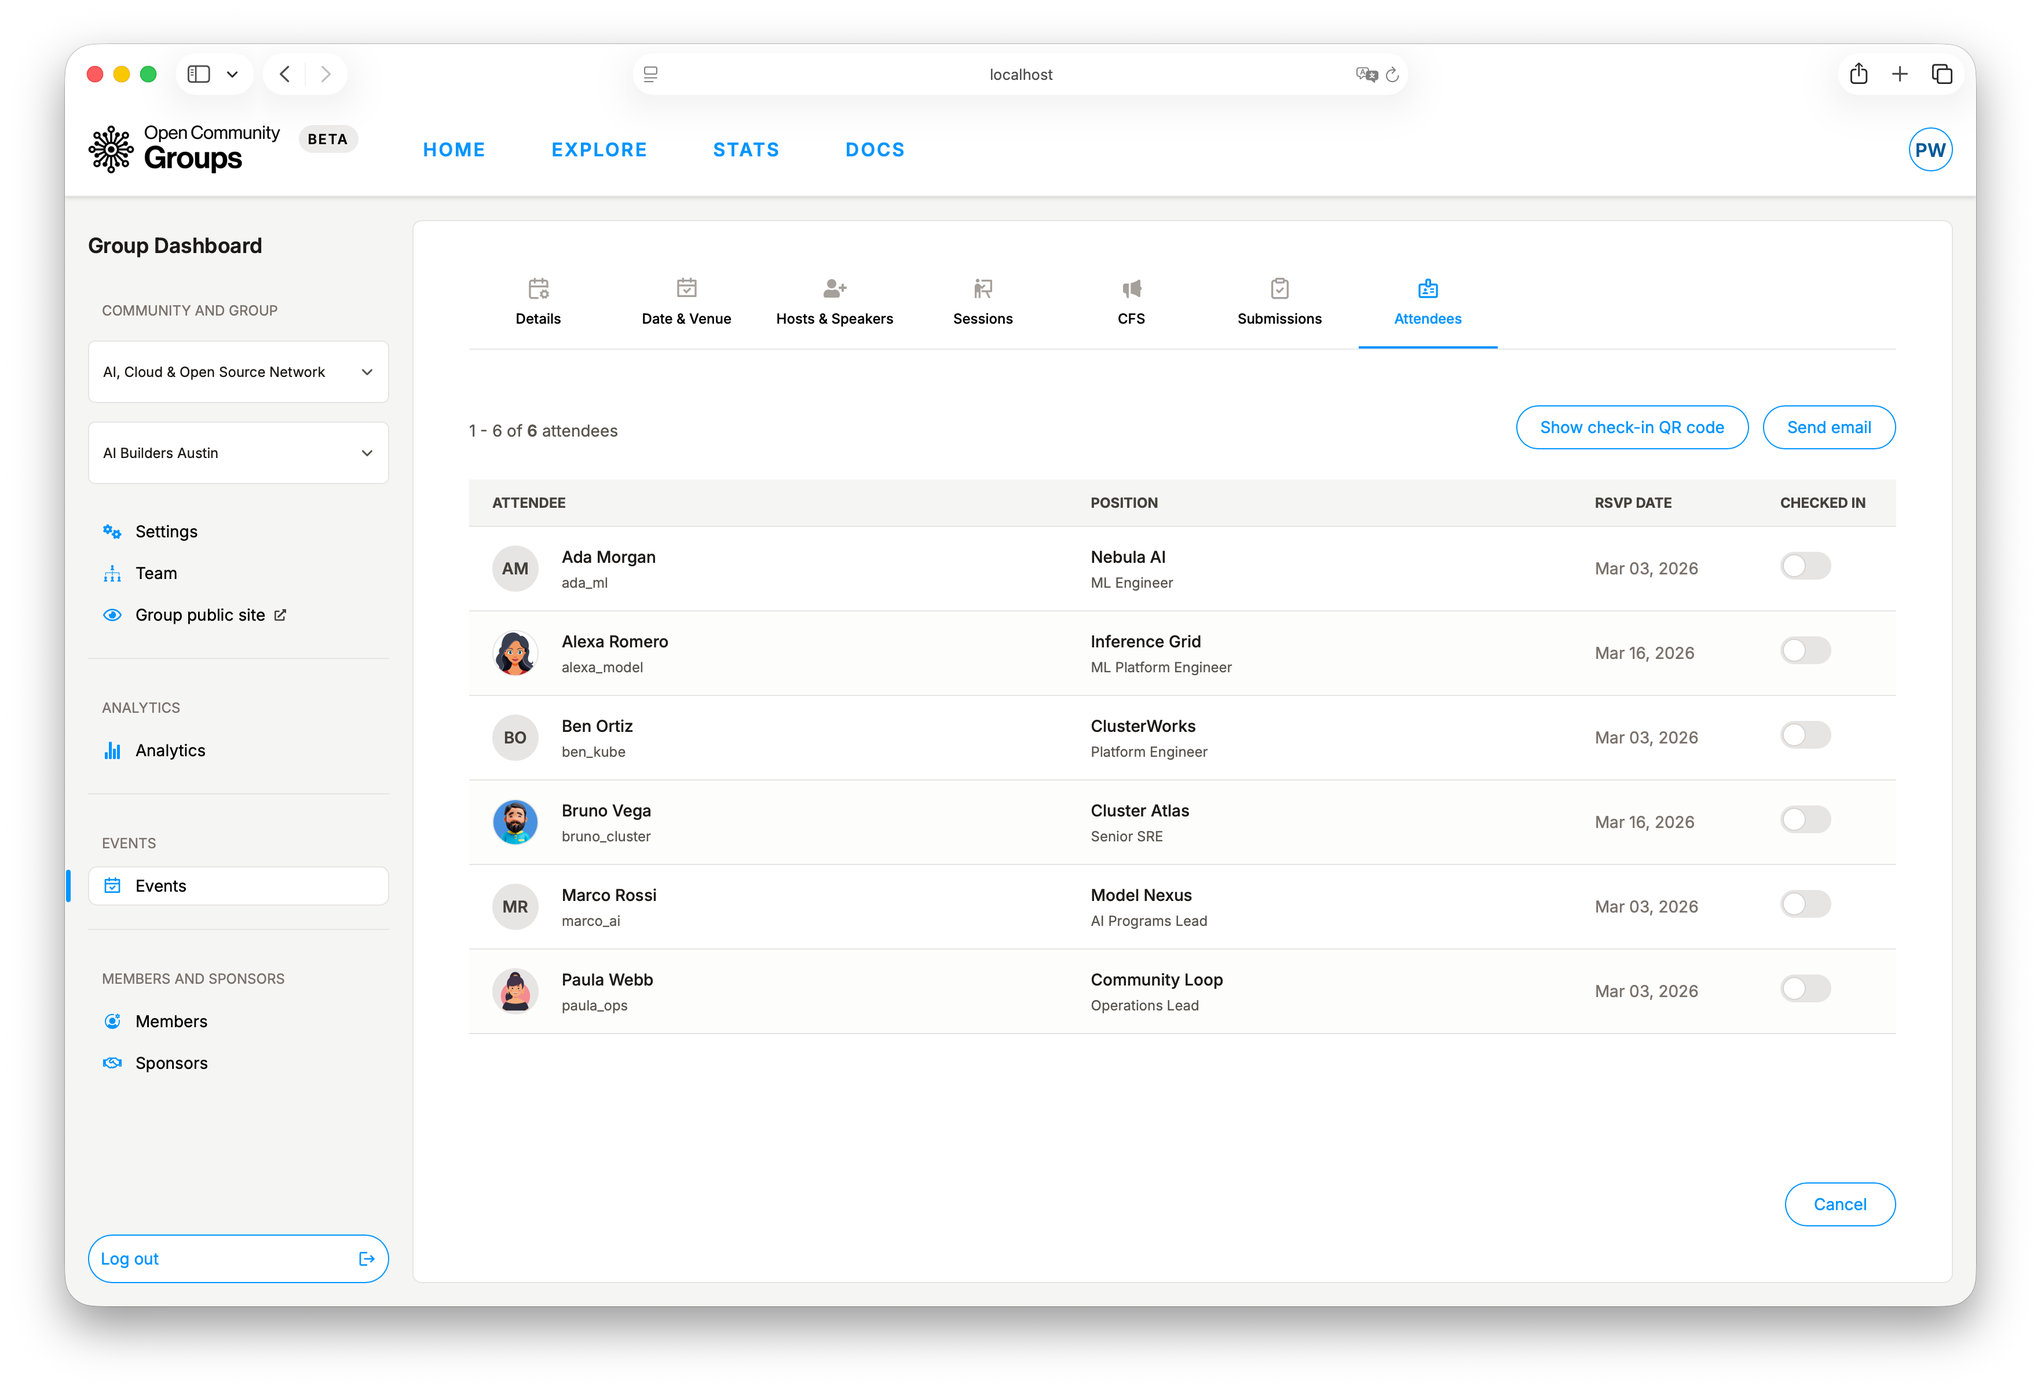
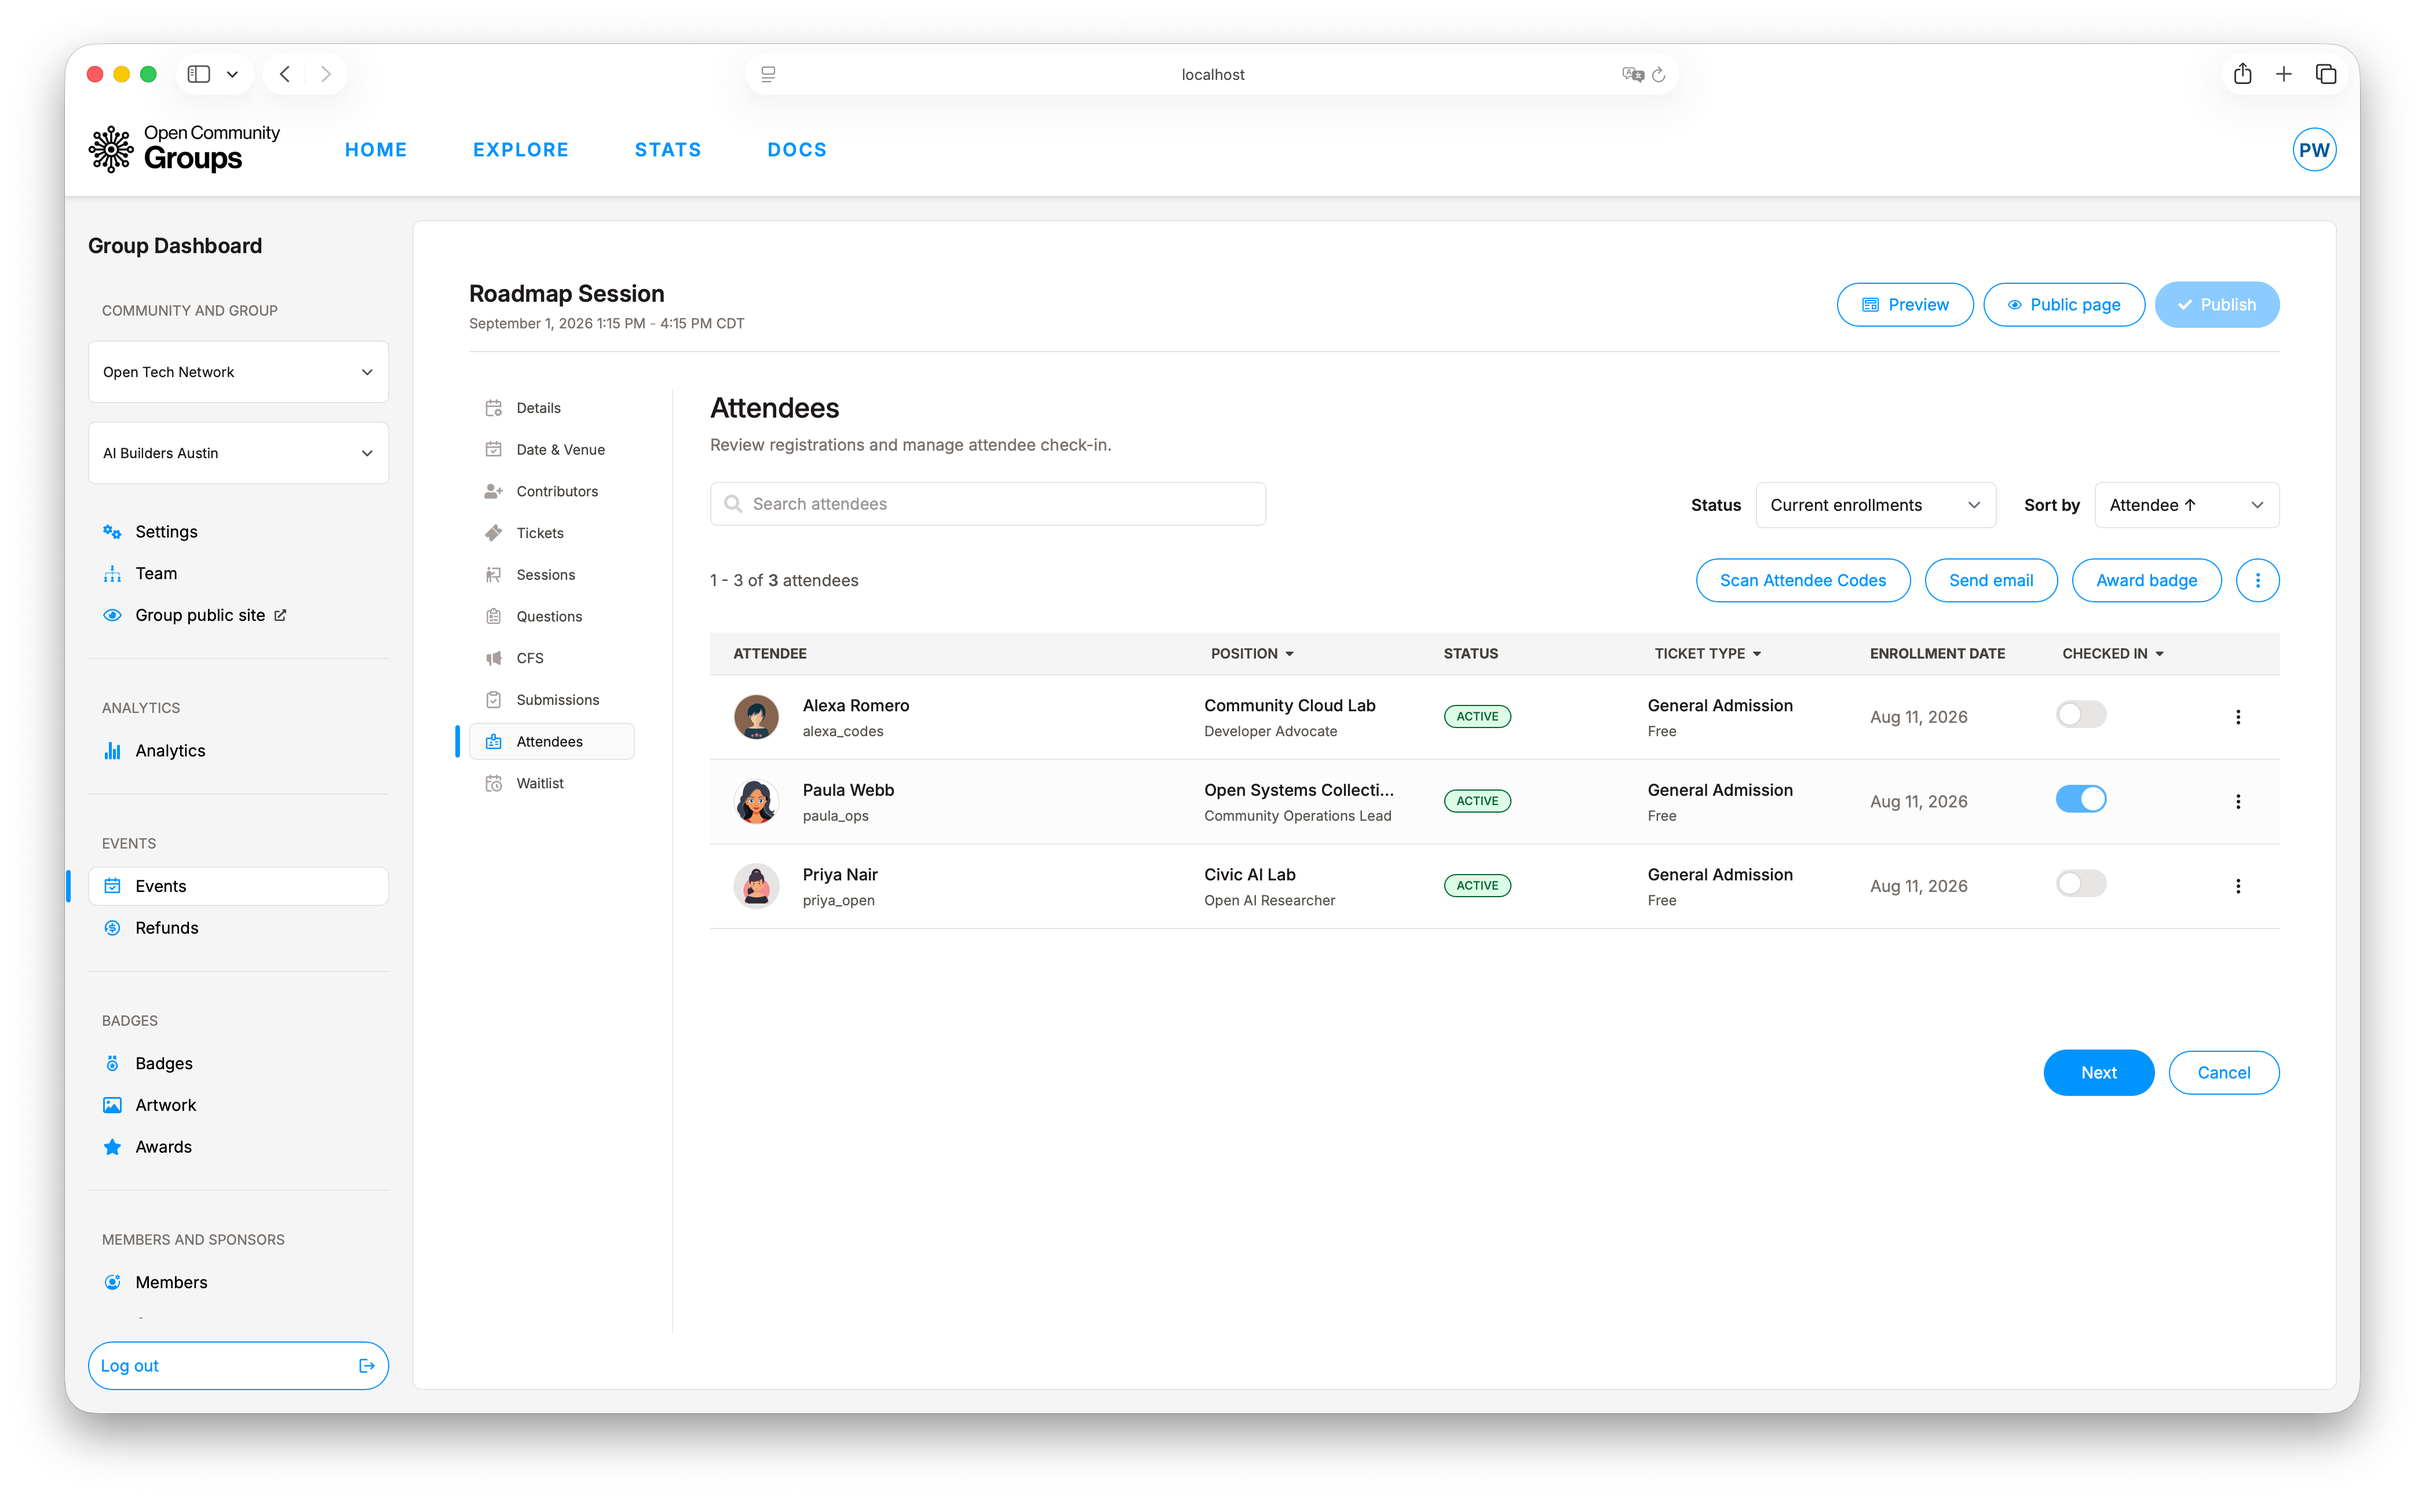
Update attendee check-in documentation screenshots

diff --git a/tests/unit/dashboard/group/check-in/scanner.test.js b/tests/unit/dashboard/group/check-in/scanner.test.js
@@ -28,7 +28,7 @@ describe("group check-in scanner controls", () => {
             <input type="checkbox" data-group-check-in-mute>
             <span data-group-check-in-mute-label>Mute sounds</span>
           </label>
-          <h2 id="group-check-in-scanner-title">Scan attendees</h2>
+          <h2 id="group-check-in-scanner-title">Scan Attendee Codes</h2>
           <h4 id="group-check-in-event-name"></h4>
           <p id="group-check-in-event-date"></p>
           <p id="group-check-in-event-location"></p>
@@ -622,7 +622,9 @@ describe("group check-in scanner controls", () => {
     expect(FakeScanner.instances[0].video.isConnected).to.equal(false);
     expect(FakeScanner.instances[1].video).to.equal(document.querySelector("[data-group-check-in-video]"));
     expect(document.querySelector("[data-group-check-in-camera]").value).to.equal("new-camera");
-    expect(document.getElementById("group-check-in-scanner-title").textContent).to.equal("Scan attendees");
+    expect(document.getElementById("group-check-in-scanner-title").textContent).to.equal(
+      "Scan Attendee Codes",
+    );
     expect(document.getElementById("group-check-in-event-name").textContent).to.equal("Event B");
     expect(document.getElementById("group-check-in-event-date").textContent).to.equal(
       "Aug 25, 2026 · 10:00 AM CEST",

diff --git a/tests/unit/dashboard/group/check-in-template.test.js b/tests/unit/dashboard/group/check-in-template.test.js
@@ -56,7 +56,7 @@ describe("dashboard group check-in template", () => {
     expect(template).to.include(
       'class="btn-primary-outline btn-mini inline-flex items-center whitespace-nowrap focus-visible:outline focus-visible:outline-2 focus-visible:outline-offset-2 focus-visible:outline-primary-500"',
     );
-    expect(template).to.include("<span>Scan attendees</span>");
+    expect(template).to.include("<span>Scan Attendee Codes</span>");
     expect(template).to.include('<span class="sr-only">for {{ event.name }}</span>');
     expect(template).not.to.include("icon-qr-code bg-primary-500");
   });
@@ -84,7 +84,7 @@ describe("dashboard group check-in template", () => {
     );
     expect(template).to.include('<div class="modal-body flex-1 p-4 md:p-6">');
     expect(template).to.include(
-      '{{ dashboard::modal_header(title_id = "group-check-in-scanner-title", title = "Scan attendees", close_attrs = "data-group-check-in-close") -}}',
+      '{{ dashboard::modal_header(title_id = "group-check-in-scanner-title", title = "Scan Attendee Codes", close_attrs = "data-group-check-in-close") -}}',
     );
     expect(template).to.include('id="group-check-in-event-name"');
     expect(template).to.include('id="group-check-in-event-date"');

diff --git a/tests/e2e/dashboard/group/events/attendees.spec.js b/tests/e2e/dashboard/group/events/attendees.spec.js
@@ -194,7 +194,7 @@ test.describe("group dashboard attendees tab", () => {
       TEST_EVENT_IDS.alpha.one,
     );
     const scannerButton = attendeesContent.getByRole("button", {
-      name: "Scan attendees",
+      name: "Scan Attendee Codes",
     });
     await expect(scannerButton).toBeEnabled();
     await scannerButton.click();
@@ -247,7 +247,7 @@ test.describe("group dashboard attendees tab", () => {
     expect((await refreshResponsePromise).ok()).toBe(true);
     await expect(scannerModal).toBeHidden();
     await expect(
-      attendeesContent.getByRole("button", { name: "Scan attendees" }),
+      attendeesContent.getByRole("button", { name: "Scan Attendee Codes" }),
     ).toBeEnabled();
   });
 
@@ -263,7 +263,7 @@ test.describe("group dashboard attendees tab", () => {
 
     // Verify the desktop scan action stays discoverable for this role.
     const scannerButton = attendeesContent.getByRole("button", {
-      name: "Scan attendees",
+      name: "Scan Attendee Codes",
     });
     await expect(scannerButton).toBeVisible();
     await expect(scannerButton).toBeEnabled();

diff --git a/tests/unit/dashboard/group/attendees-list-template.test.js b/tests/unit/dashboard/group/attendees-list-template.test.js
@@ -45,7 +45,7 @@ describe("dashboard group attendees list template", () => {
     expect(template).to.include('disabled title="Past events cannot scan attendees."');
     expect(template).to.include('{% include "dashboard/group/check_in_scanner_modal.html" -%}');
     expect(scannerModal).to.include('id="group-check-in-scanner-modal"');
-    expect(scannerModal).to.include('title = "Scan attendees"');
+    expect(scannerModal).to.include('title = "Scan Attendee Codes"');
   });
 
   it("groups enrollment views and exact statuses in one selector", async () => {

diff --git a/ocg-server/templates/dashboard/group/check_in_list.html b/ocg-server/templates/dashboard/group/check_in_list.html
@@ -47,7 +47,7 @@
                   data-event-location="{% if event.kind == EventKind::Virtual -%}Virtual{% else -%}{{ event.location.as_deref() |assigned_or("Venue details pending") }}{% endif -%}"
                   data-event-name="{{ event.name }}"
                   data-scan-url="/dashboard/group/events/{{ event.event_id }}/check-ins/scan">
-            <span>Scan attendees</span>
+            <span>Scan Attendee Codes</span>
             <span class="sr-only">for {{ event.name }}</span>
           </button>
           {% endcall -%}

diff --git a/ocg-server/templates/dashboard/group/check_in_scanner_modal.html b/ocg-server/templates/dashboard/group/check_in_scanner_modal.html
@@ -16,7 +16,7 @@
   <div class="modal-panel h-full max-h-full max-w-2xl p-4 sm:h-auto sm:max-h-[90vh]">
     <div class="modal-card h-full max-h-full rounded-lg sm:h-auto sm:max-h-[calc(90vh-2rem)]">
       {{ dashboard::modal_header(title_id = "group-check-in-scanner-title",
-        title = "Scan attendees",
+        title = "Scan Attendee Codes",
         close_attrs = "data-group-check-in-close") -}}
 
       <div class="modal-body flex-1 p-4 md:p-6">

diff --git a/ocg-server/templates/dashboard/group/attendees_list.html b/ocg-server/templates/dashboard/group/attendees_list.html
@@ -236,7 +236,7 @@
                   disabled title="Publish this event before scanning attendees."
                 {% else if event.is_past() -%}
                   disabled title="Past events cannot scan attendees."
-                {% endif -%}>Scan attendees</button>
+                {% endif -%}>Scan Attendee Codes</button>
       </div>
     {% endif -%}
     <div class="group relative w-full lg:w-auto

diff --git a/docs/assets/theme.css b/docs/assets/theme.css
@@ -384,6 +384,14 @@ body,
   width: 80%;
 }
 
+.markdown-section img[src$="dashboard-group-check-in.png"],
+.markdown-section img[src$="dashboard-user-check-in-qr-code.png"] {
+  margin-left: auto;
+  margin-right: auto;
+  max-width: 26rem;
+  width: 100%;
+}
+
 .markdown-section p:has(> img) {
   margin: 2.5rem 0 2rem;
 }

diff --git a/docs/guides/event-operations.md b/docs/guides/event-operations.md
@@ -498,7 +498,7 @@ This tab supports delivery-day execution. From here you can:
 
 - Review the attendee list and enrollment timing.
 - Run manual check-in.
-- Open the QR scanner from desktop with `Scan attendees`.
+- Open the QR scanner from desktop with `Scan Attendee Codes`.
 - Cancel confirmed attendance for future active events, queueing a full refund for paid tickets.
 - Open the attendee actions menu to invite attendees with an assigned ticket
   type.
@@ -510,11 +510,15 @@ Use [Check-In](/dashboard/group?tab=check-in ':ignore') for the primary event-da
 the community and group above the event list when working on mobile, then select an event, allow
 camera access, and scan each attendee's personal QR code. The scanner stays open, shows the attendee
 name and ticket, distinguishes a new check-in from a duplicate scan, and then resumes automatically.
-On desktop, the Attendees tab also offers a `Scan attendees` button that opens the same scanner in
+On desktop, the Attendees tab also offers a `Scan Attendee Codes` button that opens the same scanner in
 place and updates the attendee table when it closes if any attendees have been scanned. It requires
 check-in access and is disabled for canceled, unpublished, or past events. Use the attendees
 table toggle as the manual fallback when a camera or QR code is unavailable. In both flows, the
 person must have confirmed attendance.
+
+![Group Check-In event selection](../screenshots/dashboard-group-check-in.png)
+
+![Successful attendee QR scan](../screenshots/dashboard-group-event-attendees-scanner.png)
 
 The `Award badge` menu opens the badge picker for the chosen attendee set. Selection mode keeps
 chosen attendees while you change table filters, sorting, or pages. For eligibility, duplicate

diff --git a/docs/guides/user-dashboard.md b/docs/guides/user-dashboard.md
@@ -116,6 +116,8 @@ The mobile dashboard entry screen links to Check-In. On larger screens, open the
 at [/dashboard/user?tab=check-in](/dashboard/user?tab=check-in ':ignore'). Canceled, unpublished,
 unscheduled, and past events are excluded.
 
+![Attendee check-in QR code](../screenshots/dashboard-user-check-in-qr-code.png)
+
 ## Purchases and Financial Documents
 
 `Purchases & documents` is the durable history for paid tickets. Unlike `My
